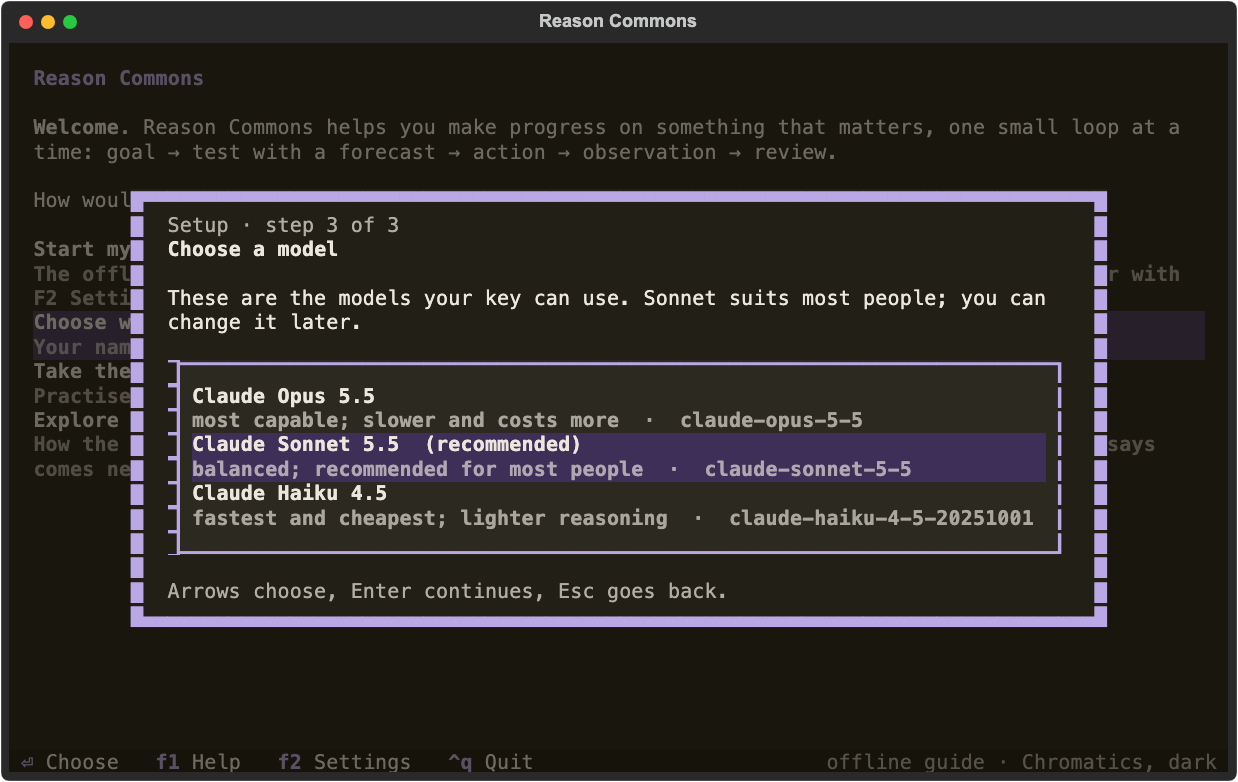
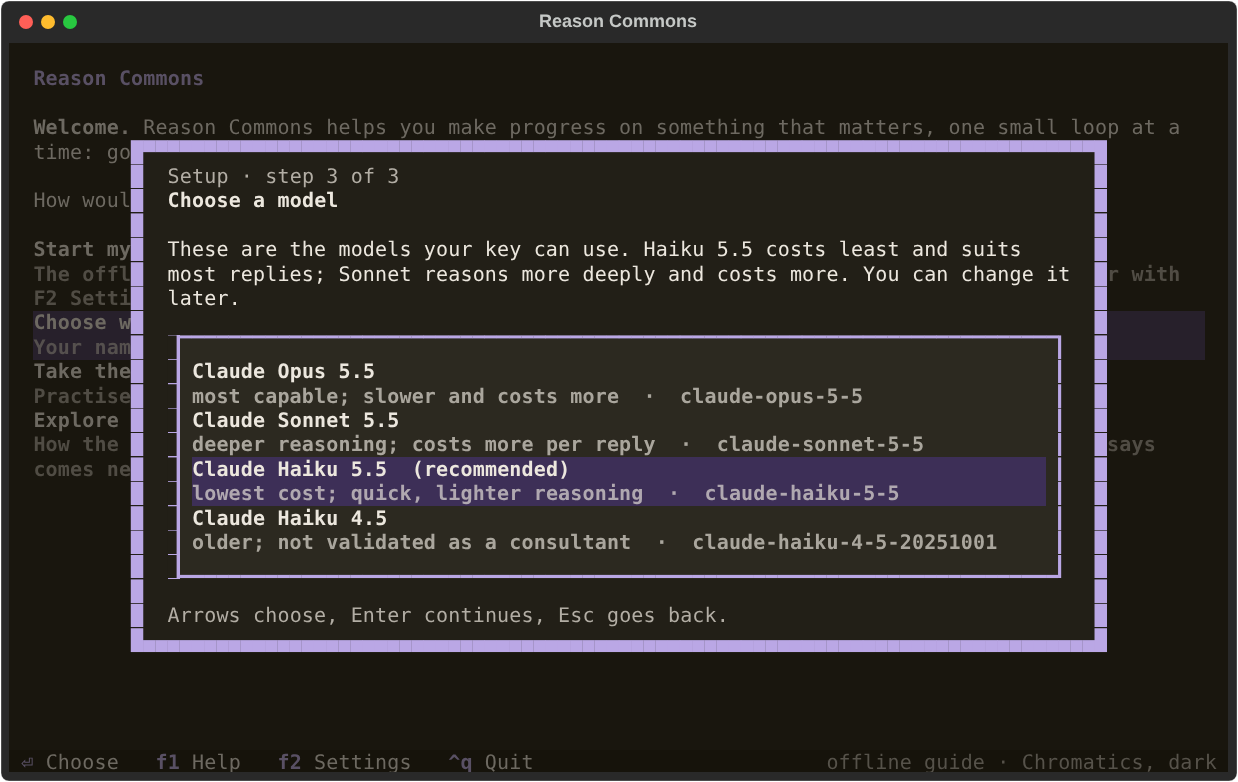
Make Claude Haiku 5.5 the default Claude model
Haiku 5.5 is the cheapest validated consultant (docs/validation.md), so it
answers when no Claude model is chosen. A model saved in setup or set in
the environment stays the person's choice.

- anthropic.DEFAULT_MODEL is claude-haiku-5-5.
- Setup recommends Haiku 5.5 when the key can use it, else Sonnet, else
  the first model; never an older Haiku, which is unvalidated and costs
  more. The model hints name the trade-off: Haiku lowest cost and lighter
  reasoning, Sonnet deeper reasoning at more per reply.
- providers.feature: "Claude Haiku 5.5 consults when no Claude model is
  chosen" (shown failing on Sonnet before the change).
- Docs name the new default; setup-model is re-rendered with Haiku 5.5.

Claude-Session: https://claude.ai/code/session_01KA86DVsxmawULBuwVbU7cn

diff --git a/tests/test_onboarding.py b/tests/test_onboarding.py
@@ -64,9 +64,32 @@ def test_unreadable_settings_count_as_first_start(tmp_path):
 
 
 def test_model_hints_name_the_trade_off():
-    assert "recommended" in model_hint("claude-sonnet-5-5")
+    assert model_hint("claude-haiku-5-5") == "lowest cost; quick, lighter reasoning"
+    assert model_hint("claude-sonnet-5-5") == "deeper reasoning; costs more per reply"
     assert "capable" in model_hint("claude-opus-5-5")
-    assert "cheapest" in model_hint("claude-haiku-4-5-20251001")
+    # An older Haiku costs more than Haiku 5.5 and was never validated, so it is not called the cheapest.
+    hint = model_hint("claude-haiku-4-5-20251001")
+    assert "lowest" not in hint and "not validated" in hint
+
+
+def test_setup_recommends_haiku_5_5_and_otherwise_sonnet_never_another_haiku():
+    from reason_commons.adapters.onboarding import recommended_model
+    assert recommended_model(["claude-opus-5-5", "claude-sonnet-5-5", "claude-haiku-5-5",
+                              "claude-haiku-4-5-20251001"]) == "claude-haiku-5-5"
+    assert recommended_model(["claude-opus-5-5", "claude-haiku-4-5-20251001", "claude-sonnet-5-5"]) == \
+        "claude-sonnet-5-5"
+    assert recommended_model(["claude-opus-5-5", "claude-haiku-4-5-20251001"]) == "claude-opus-5-5"
+
+
+def test_a_saved_claude_model_stays_after_the_default_changes():
+    """Someone who chose Sonnet keeps it: the saved choice fills the model the adapter reads."""
+    from reason_commons.adapters.anthropic import AnthropicConsultant
+    settings = Settings(data={"consultant": "anthropic", "anthropic": {"model": "claude-sonnet-5-5"}}, exists=True)
+    environment = {}
+    settings.apply(environment)
+    assert environment["REASON_COMMONS_ANTHROPIC_MODEL"] == "claude-sonnet-5-5"
+    assert AnthropicConsultant.describe_settings(environ=environment)["model"] == "claude-sonnet-5-5"
+    assert AnthropicConsultant.describe_settings(environ={})["model"] == "claude-haiku-5-5"
 
 
 async def pick(app, pilot, key):
@@ -141,7 +164,8 @@ def test_setup_with_claude_checks_the_key_offers_models_and_starts_a_goal(tmp_pa
             await type_in(app, pilot, "sk-ant-good")
             await pilot.pause(0.2)
             choices = app.screen.query_one("#choices")
-            assert choices.options[choices.highlighted].id == "claude-sonnet-5-5"  # recommended
+            # Haiku 5.5 is not listed, and an older Haiku is never recommended: Sonnet is.
+            assert choices.options[choices.highlighted].id == "claude-sonnet-5-5"
             await pick(app, pilot, "claude-opus-5-5")
             await pick(app, pilot, "goal")
             await type_in(app, pilot, "Sleep better")
@@ -157,6 +181,31 @@ def test_setup_with_claude_checks_the_key_offers_models_and_starts_a_goal(tmp_pa
     assert os.environ["REASON_COMMONS_PROVIDER"] == "anthropic"
     with open_case(created, writable=False) as case:
         assert "sk-ant" not in str(case.inspect())
+
+
+def test_setup_highlights_haiku_5_5_when_the_key_can_use_it(tmp_path):
+    settings = Settings.load(tmp_path / "settings.yaml")
+    models = [("claude-opus-5-5", "Claude Opus 5.5"), ("claude-sonnet-5-5", "Claude Sonnet 5.5"),
+              ("claude-haiku-5-5", "Claude Haiku 5.5"), ("claude-haiku-4-5-20251001", "Claude Haiku 4.5")]
+
+    async def run():
+        app = GoalsApp(tmp_path / "goals", settings=settings, checks={"anthropic": lambda key: (models, None)})
+        async with app.run_test(size=(100, 30)) as pilot:
+            await pick(app, pilot, "setup")
+            await type_in(app, pilot, "Dana")
+            await pick(app, pilot, "anthropic")
+            await type_in(app, pilot, "sk-ant-good")
+            await pilot.pause(0.2)
+            choices = app.screen.query_one("#choices")
+            labels = {option.id: str(option.prompt) for option in choices.options}
+            assert choices.options[choices.highlighted].id == "claude-haiku-5-5"
+            assert [key for key, label in labels.items() if "(recommended)" in label] == ["claude-haiku-5-5"]
+            assert "Haiku 5.5 costs least" in str(app.screen.query_one(".explanation").render())
+            await pilot.press("enter")
+            await pick(app, pilot, "sample")
+        return app.return_value
+    assert asyncio.run(run()) == "sample"
+    assert Settings.load(tmp_path / "settings.yaml").get("anthropic", "model") == "claude-haiku-5-5"
 
 
 def test_setup_falls_back_to_the_guide_when_lm_studio_is_missing(tmp_path):

diff --git a/src/reason_commons/adapters/onboarding.py b/src/reason_commons/adapters/onboarding.py
@@ -123,6 +123,16 @@ def option_text(title, detail):
     return text
 
 
+def recommended_model(ids):
+    """The model setup highlights: the default where the key can use it, else Sonnet, else the first listed.
+
+    Never any Haiku: only Haiku 5.5 has been validated as a consultant, and older ones cost more."""
+    from reason_commons.adapters.anthropic import DEFAULT_MODEL
+    if DEFAULT_MODEL in ids:
+        return DEFAULT_MODEL
+    return next((model for model in ids if "sonnet" in model.lower()), ids[0])
+
+
 # ----- connection checks (run in a thread) ---------------------------------------------
 def check_anthropic(key):
     """Return (models, None) or (None, plain explanation)."""
@@ -257,14 +267,14 @@ async def run_setup(app, settings, first_run, checks=None):
             current = settings.get("anthropic" if provider == "anthropic" else "lm_studio", "model")
             ids = [model_id for model_id, _ in models]
             if provider == "anthropic":
-                recommended = next((m for m in ids if "sonnet" in m.lower()), ids[0])
+                recommended = recommended_model(ids)
                 options = []
                 for model_id, display in models:
                     hint = model_hint(model_id) or "Claude model"
                     title = display + ("  (recommended)" if model_id == recommended else "")
                     options.append((model_id, option_text(title, f"{hint}  ·  {model_id}")))
-                explanation = ("These are the models your key can use. Sonnet suits most people; "
-                               "you can change it later.")
+                explanation = ("These are the models your key can use. Haiku 5.5 costs least and suits "
+                               "most replies; Sonnet reasons more deeply and costs more. You can change it later.")
             else:
                 recommended = ids[0]
                 options = [(model_id, model_id) for model_id in ids]

diff --git a/tests/conversation/steps/provider_steps.py b/tests/conversation/steps/provider_steps.py
@@ -269,6 +269,21 @@ def key_not_stored(context):
     assert SECRET.encode() not in saved_text(context) and SECRET.encode() not in exported
 
 
+@then("the consultant settings name claude-haiku-5-5 as the default Claude model")
+def haiku_default_settings(context):
+    settings = provider_settings()
+    assert settings["provider"] == "anthropic", settings
+    assert (settings["model"], settings["model_source"]) == ("claude-haiku-5-5", "default"), settings
+    assert "Model: claude-haiku-5-5 (default)" in render_provider_settings(settings)
+
+
+@then("the case records that Claude Haiku 5.5 produced it")
+def haiku_recorded(context):
+    sent = [payload["model"] for method, path, _, payload in context.server.requests if path == "/v1/messages"]
+    assert sent == ["claude-haiku-5-5"], sent
+    assert "/model=claude-haiku-5-5/" in context.app.inspect()["case"]["adapter_versions"]["in000001"]
+
+
 @then("the case records that LM Studio produced it")
 def lm_recorded(context):
     assert context.app.inspect()["case"]["adapter_versions"]["in000001"].startswith("lm-studio/")

diff --git a/tests/test_anthropic.py b/tests/test_anthropic.py
@@ -55,6 +55,15 @@ def test_native_consultation_sends_complete_context_and_persists_without_secret(
     assert not any(b"fixture-secret" in path.read_bytes() for path in store.rglob("*.yaml"))
 
 
+def test_the_default_model_is_haiku_5_5_and_a_chosen_one_wins():
+    assert DEFAULT_MODEL == "claude-haiku-5-5"
+    assert AnthropicConsultant().model == "claude-haiku-5-5"
+    assert AnthropicConsultant.describe_settings(environ={})["model"] == "claude-haiku-5-5"
+    chosen = {"REASON_COMMONS_ANTHROPIC_MODEL": "claude-sonnet-5-5"}
+    assert AnthropicConsultant.describe_settings(environ=chosen)["model"] == "claude-sonnet-5-5"
+    assert AnthropicConsultant.describe_settings(model="claude-opus-5-5", environ=chosen)["model"] == "claude-opus-5-5"
+
+
 def test_count_tokens_is_read_only_and_uses_the_full_generation_prompt(anthropic_server):
     consultant = adapter(anthropic_server)
     request = {"input": {"request_id": "in001", "base_revision": 0, "text": "literal"}, "case": {}, "sources": {}}

diff --git a/src/reason_commons/adapters/settings.py b/src/reason_commons/adapters/settings.py
@@ -135,9 +135,11 @@ def model_hint(model_id):
     if "opus" in lowered:
         return "most capable; slower and costs more"
     if "sonnet" in lowered:
-        return "balanced; recommended for most people"
+        return "deeper reasoning; costs more per reply"
+    if "haiku-5-5" in lowered:
+        return "lowest cost; quick, lighter reasoning"
     if "haiku" in lowered:
-        return "cheapest; lighter reasoning, more replies to retry"
+        return "older; not validated as a consultant"
     if "fable" in lowered or "mythos" in lowered:
         return "top tier; highest cost"
     return ""

diff --git a/src/reason_commons/adapters/anthropic.py b/src/reason_commons/adapters/anthropic.py
@@ -24,7 +24,9 @@ from reason_commons.domain.model import FIELDS, PROFILE, SCHEMA
 
 MAX_REQUEST_BYTES = 4 * 1024 * 1024
 MAX_RESPONSE_BYTES = 8 * 1024 * 1024
-DEFAULT_MODEL = "claude-sonnet-5-5"
+# The lowest-cost model the consulting procedure is validated with (docs/validation.md); a saved or chosen
+# model always wins over it.
+DEFAULT_MODEL = "claude-haiku-5-5"
 # Thinking shares the output budget with the proposal, so leave room for both.
 DEFAULT_MAX_TOKENS = 16000
 EFFORTS = ("low", "medium", "high", "xhigh", "max")

diff --git a/scripts/render_screenshots.py b/scripts/render_screenshots.py
@@ -320,7 +320,7 @@ async def first_start(folder):
     """The first-start choices, two setup steps and the tour's coaching."""
     from reason_commons.adapters.settings import Settings
     models = [("claude-opus-5-5", "Claude Opus 5.5"), ("claude-sonnet-5-5", "Claude Sonnet 5.5"),
-              ("claude-haiku-4-5-20251001", "Claude Haiku 4.5")]
+              ("claude-haiku-5-5", "Claude Haiku 5.5"), ("claude-haiku-4-5-20251001", "Claude Haiku 4.5")]
     os.environ["USER"] = "mira"
 
     def fresh():

diff --git a/docs/providers.md b/docs/providers.md
@@ -82,14 +82,18 @@ Neither is ever written into a case or an export.
 | Setting | Anthropic | LM Studio |
 |---|---|---|
 | Credential | `ANTHROPIC_API_KEY` (required) | `LM_STUDIO_API_TOKEN` (optional, only if your server requires one) |
-| Model | `REASON_COMMONS_ANTHROPIC_MODEL`, default `claude-sonnet-5-5` | `REASON_COMMONS_LM_STUDIO_MODEL`; if unset, used automatically only when the server advertises exactly one model |
+| Model | `REASON_COMMONS_ANTHROPIC_MODEL`, default `claude-haiku-5-5` | `REASON_COMMONS_LM_STUDIO_MODEL`; if unset, used automatically only when the server advertises exactly one model |
 | Server URL | `REASON_COMMONS_ANTHROPIC_URL`, default `https://api.anthropic.com/v1` (HTTPS only; plain HTTP just for loopback testing) | `REASON_COMMONS_LM_STUDIO_URL`, default `http://127.0.0.1:1234/v1` |
 | Timeout (seconds) | `REASON_COMMONS_ANTHROPIC_TIMEOUT`, default 120 | `REASON_COMMONS_LM_STUDIO_TIMEOUT`, default 120 |
 | Output budget (tokens) | `REASON_COMMONS_ANTHROPIC_MAX_TOKENS`, default 16000; the model's thinking counts against it too | Fixed at 4096 |
 | Effort | `REASON_COMMONS_ANTHROPIC_EFFORT`: `low`, `medium`, `high`, `xhigh`, `max`, or `default` to send none. Unset, it is `high` where the model reports support for effort, and otherwise the model's own default | Not used |
 
-Any current Anthropic model works, including `claude-haiku-5-5` for lower cost
-(see [validation](validation.md) for how it has measured). The adapter asks the
+The default is `claude-haiku-5-5`: it costs least and suits most replies, though
+each reply takes longer than Sonnet's (see [validation](validation.md) for how it
+has measured). `claude-sonnet-5-5` reasons more deeply and costs more per reply;
+choose it in setup or set `REASON_COMMONS_ANTHROPIC_MODEL`. A model you saved in
+setup, or set in the environment, stays your choice. Any current Anthropic model
+works. The adapter asks the
 model what it supports before the first consultation: a model without effort
 levels, such as Claude Haiku 4.5, gets none, and an effort you chose that the
 model lacks is refused before anything is sent.
@@ -109,7 +113,7 @@ reason-commons providers --json
 
 ```
 Provider: anthropic (chosen by REASON_COMMONS_PROVIDER)
-Model: claude-sonnet-5-5 (default)
+Model: claude-haiku-5-5 (default)
 Endpoint: https://api.anthropic.com/v1
 Credential: ANTHROPIC_API_KEY not set (required)
 Output: up to 16000 tokens; effort high where the model supports it

diff --git a/docs/use-a-model.md b/docs/use-a-model.md
@@ -12,11 +12,12 @@ On the first start, choose **Choose who asks the questions first**; later, choos
 
 - **Claude**: paste your API key from the
   [Anthropic Console](https://console.anthropic.com/). Reason Commons checks it and
-  lists the models your key can use; Sonnet is marked as recommended.
+  lists the models your key can use. Haiku 5.5 is marked as recommended: it costs
+  least and suits most replies. Sonnet reasons more deeply and costs more per reply.
 - **LM Studio**: the usual address is filled in. Reason Commons finds the server
   and lists the loaded models. If nothing answers, it says what to do in LM Studio.
 
-![Choosing a Claude model: Opus, Sonnet (recommended) and Haiku, each with its trade-off](images/setup-model.png)
+![Choosing a Claude model: Opus, Sonnet, Haiku 5.5 (recommended) and Haiku 4.5, each with its trade-off](images/setup-model.png)
 
 Your choices are saved in `~/.config/reason-commons/settings.yaml`, readable only
 by you, and never in a goal or an export. Environment variables, described below,
@@ -36,7 +37,8 @@ still take precedence, so an existing shell setup keeps working.
    **Consultant: Anthropic Claude**.
 
 To make Claude the default, also add `export REASON_COMMONS_PROVIDER=anthropic`.
-To use a different Claude model, set `REASON_COMMONS_ANTHROPIC_MODEL`.
+Claude Haiku 5.5 answers unless you chose another model; to use a different one,
+set `REASON_COMMONS_ANTHROPIC_MODEL`.
 
 When Claude is selected and you press **Send** (or choose a move marked "asks
 consultant"), your answer and the goal's saved records are sent to Anthropic.

diff --git a/docs/plans/2026-10-08-haiku-default-boost-usage.md b/docs/plans/2026-10-08-haiku-default-boost-usage.md
@@ -1,6 +1,6 @@
 # Plan: Haiku 5.5 by default, a one-reply Sonnet boost, and a usage/cost meter with a soft budget
 
-> Status: planned, not started (steps 2–7). Written 2026-10-08 on `claude/relaxed-rubin-9mij55` after the Haiku 5.5
+> Status: in progress on `claude/haiku-default-sonnet-boost-15ad85`: steps 1–2 done; 3–7 planned. Written 2026-10-08 on `claude/relaxed-rubin-9mij55` after the Haiku 5.5
 > evaluation recorded in `docs/validation.md` ("Claude Haiku 5.5 as the consultant"). Line numbers are as of that
 > branch and will drift; search for the named functions.
 
@@ -37,7 +37,7 @@ Decided with the user:
 The blind AI pre-screen of `semantic-haiku55-adapter4` (150 pass, 8 fail, 4 can't judge) is recorded in
 `docs/validation.md`, with its failure patterns (review classification, the Cloud layout, the fixtures' dates).
 
-### 2. Haiku 5.5 is the default
+### 2. Haiku 5.5 is the default — done (2026-10-08)
 - **Default model.** `adapters/anthropic.py:27` `DEFAULT_MODEL = "claude-haiku-5-5"`.
 - **Onboarding.**
   - `adapters/onboarding.py:260`: recommend `DEFAULT_MODEL` if listed, else Sonnet, else the first model. Never "any haiku": Haiku 4.5 is unvalidated and costs $1 / $5.

diff --git a/docs/tui.md b/docs/tui.md
@@ -444,7 +444,7 @@ your shell instead, for example in `~/.zshrc` on a Mac:
 | `REASON_COMMONS_PROVIDER` | Consultant at start: `guided`, `anthropic` or `lm-studio` | `guided` |
 | `REASON_COMMONS_SPEAKER` | Name recorded with your answers | the name from setup, else your login name |
 | `ANTHROPIC_API_KEY` | Key for Claude | none |
-| `REASON_COMMONS_ANTHROPIC_MODEL` | Claude model ID | `claude-sonnet-5-5` |
+| `REASON_COMMONS_ANTHROPIC_MODEL` | Claude model ID | `claude-haiku-5-5` |
 | `REASON_COMMONS_ANTHROPIC_MAX_TOKENS` | Claude's output budget, thinking included | `16000` |
 | `REASON_COMMONS_ANTHROPIC_EFFORT` | Claude's effort: `low` to `max`, or `default` to send none | `high` where the model supports it |
 | `REASON_COMMONS_LM_STUDIO_URL` | LM Studio server address | `http://127.0.0.1:1234/v1` |

diff --git a/evaluations/live-claude-test-prompt.md b/evaluations/live-claude-test-prompt.md
@@ -38,7 +38,7 @@ carry on with the next step.
   `rm -rf /tmp/rc-live && mkdir -p /tmp/rc-live` once at the start). Below, `$RC`
   means that path. Never touch `~/ReasonCommons` or any existing case.
 - Use the Anthropic consultant for every contribution: pass `--provider anthropic`.
-  Keep the default model unless told otherwise.
+  Keep the default model (`claude-haiku-5-5`) unless told otherwise.
 - Read results with `show CASE --view VIEW --format json` and `inspect CASE --json`.
   Judge the application by its JSON, never by the consultant's prose.
 - A contribution that fails (`rejected`, `unavailable`, `stale`) is a finding: record
